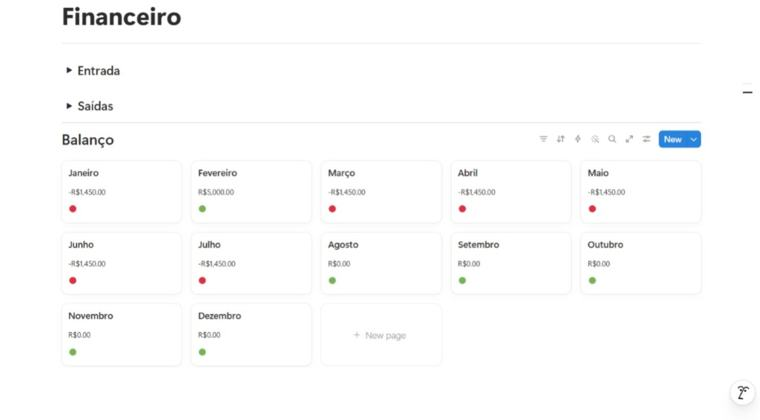
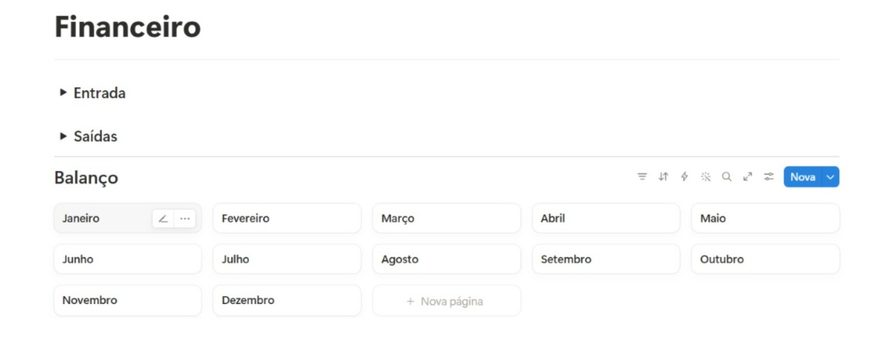
Ajustes pedidos pela cliente, sem alterar a copy aprovada
Marca: o topo e o rodape passam a usar so o simbolo com as iniciais, por ser
a pagina da Mentoria. O card de compartilhamento seguiu a mesma regra.

Metodo P.A.V.A.: seta indicando que o percurso comeca no Posicionamento e
segue no sentido horario. A descricao acessivel do diagrama cita o ponto de
partida.

Rodape: links reais de Instagram e TikTok, sem os parametros de rastreio que
vieram junto. Telefone e e-mail viraram links, com o texto intacto.

Escritorio Digital: quatro telas no lugar de tres, em grade dois por dois.
Sai o nome de outra aluna no titulo, saem os sete meses negativos do
Financeiro e entra o CRM. Recortadas em pares de mesma proporcao para as
linhas fecharem sem sobra, e sem o ruido de interface do Notion.

Hero no iPhone: o iOS transformava o numero do CREA em link de telefone, o
que injetava um elemento a mais na lista e desmontava o alinhamento dos tres
selos. Resolvido com format-detection, e a lista virou flex para nao quebrar
caso o navegador insira algo.

Texto visivel conferido antes e depois: 281 blocos, zero diferencas.

diff --git a/index.html b/index.html
@@ -8,6 +8,8 @@
 <title>Mentoria Master | Pamela Neto | Mentoria individual para profissionais da área ambiental</title>
 <meta name="description" content="Aprenda a executar, na prática, os três serviços que o mercado ambiental mais contrata: IBAMA, Gestão de Resíduos e Licenciamento Ambiental. Mentoria individual e ao vivo, com acompanhamento de quem atua na área há mais de 10 anos.">
 <meta name="theme-color" content="#673165">
+<!-- iOS transformava o numero do CREA em link de telefone e quebrava a lista do hero -->
+<meta name="format-detection" content="telephone=no">
 
 <!-- Icone da aba -->
 <link rel="icon" type="image/png" href="assets/img/favicon.png">
@@ -206,8 +208,8 @@ strong{font-weight:600;color:var(--roxo-escuro)}
 
 .selos{list-style:none;margin-top:42px;display:grid;gap:15px;max-width:44ch}
 .selos li{
-  font-size:var(--t-sm);color:var(--roxo-escuro);display:grid;grid-template-columns:auto 1fr;
-  gap:14px;align-items:start;font-weight:400;line-height:1.5;
+  font-size:var(--t-sm);color:var(--roxo-escuro);display:flex;
+  gap:14px;align-items:flex-start;font-weight:400;line-height:1.5;
   padding-right:12px;
 }
 .selos li::before{
@@ -442,9 +444,8 @@ strong{font-weight:600;color:var(--roxo-escuro)}
 .cartao-bonus ul{list-style:none;display:grid;gap:13px;margin-top:18px}
 .cartao-bonus li{font-size:var(--t-sm);color:var(--sobre-escuro-3);padding-left:26px;position:relative;line-height:1.55}
 .cartao-bonus li::before{content:"";position:absolute;left:0;top:12px;width:14px;height:1px;background:var(--verde)}
-.telas{display:grid;grid-template-columns:1.3fr 1fr;gap:clamp(14px,1.6vw,20px);margin-top:clamp(40px,4.5vw,54px)}
-.telas img{border-radius:4px;border:1px solid rgba(255,255,255,.18);box-shadow:0 24px 48px -24px rgba(0,0,0,.5)}
-.telas .coluna{display:grid;gap:clamp(14px,1.6vw,20px)}
+.telas{display:grid;grid-template-columns:1fr 1fr;gap:clamp(14px,1.6vw,20px);margin-top:clamp(40px,4.5vw,54px)}
+.telas img{width:100%;height:auto;border-radius:4px;border:1px solid rgba(255,255,255,.18);box-shadow:0 24px 48px -24px rgba(0,0,0,.5)}
 .legenda{
   font-size:14px;color:var(--sobre-escuro-4);margin:22px auto 0;text-align:center;
   max-width:62ch;line-height:1.6;
@@ -694,6 +695,8 @@ footer a{color:var(--rodape-texto);text-decoration:none;border-bottom:1px solid 
 footer a:hover{color:#fff;border-color:#fff}
 footer a:focus-visible{outline:2px solid var(--verde-claro);outline-offset:3px}
 .rodape-links{display:flex;gap:26px;flex-wrap:wrap;justify-content:flex-end}
+.rodape-grid p a{color:inherit;text-decoration:none;border-bottom:1px solid rgba(255,255,255,.28)}
+.rodape-grid p a:hover{border-bottom-color:rgba(255,255,255,.7)}
 .rodape-base{display:flex;justify-content:space-between;gap:22px;flex-wrap:wrap;padding-top:26px;font-size:13.5px;color:var(--rodape-texto-2)}
 
 
@@ -775,7 +778,7 @@ footer a:focus-visible{outline:2px solid var(--verde-claro);outline-offset:3px}
   <div class="env">
     <div class="hero-grid">
       <div>
-        <img src="assets/img/logo.png" alt="Pamela Neto Consultoria Ambiental" class="marca" width="440" height="203">
+        <img src="assets/img/simbolo.png" alt="Pamela Neto" class="marca" width="600" height="300">
         <span class="tarja">Mentoria individual para profissionais da área ambiental</span>
         <h1>Você aprendeu a teoria.<br>Agora é hora de aprender a executar.</h1>
         <p class="hero-sub">Mentoria individual e ao vivo para profissionais da área ambiental que querem executar, com segurança, os três serviços que o mercado mais contrata: Serviços do IBAMA, Gestão de Resíduos e Licenciamento Ambiental.</p>
@@ -895,12 +898,16 @@ footer a:focus-visible{outline:2px solid var(--verde-claro);outline-offset:3px}
     <p class="intro">O P.A.V.A. é a metodologia que desenvolvi exclusivamente para a Mentoria Master, a partir da experiência prática de mercado. Ele existe porque conhecimento técnico sozinho não sustenta uma carreira: é preciso saber se posicionar, gerar oportunidades, executar com qualidade e crescer com consistência.</p>
     <div class="pava-grid">
       <div>
-        <svg class="roda" viewBox="0 0 400 400" role="img" aria-label="Diagrama do Método P.A.V.A. com quatro pilares: Posicionamento, Aquisição de oportunidades, Valor técnico e Avanço profissional">
+        <svg class="roda" viewBox="0 0 400 400" role="img" aria-label="Diagrama do Método P.A.V.A. Uma seta marca o início no Posicionamento e o percurso segue no sentido horário pelos quatro pilares: Posicionamento, Aquisição de oportunidades, Valor técnico e Avanço profissional">
           <!-- as quatro cores abaixo acompanham os marcadores dos pilares ao lado -->
           <path d="M200 200 L200 40 A160 160 0 0 0 40 200 Z" fill="#673165"/>
           <path d="M200 200 L200 40 A160 160 0 0 1 360 200 Z" fill="#9BC4B3"/>
           <path d="M200 200 L360 200 A160 160 0 0 1 200 360 Z" fill="#4A2249"/>
           <path d="M200 200 L200 360 A160 160 0 0 1 40 200 Z" fill="#A983B7"/>
+          <!-- seta de inicio: o percurso comeca no P e segue no sentido horario -->
+          <path d="M67 171.7 A136 136 0 0 1 158 70.7" fill="none" stroke="#FFFFFF"
+                stroke-width="3.4" stroke-linecap="round" opacity=".92"/>
+          <path d="M166.6 67.9 L155.9 77.2 L152.5 66.7 Z" fill="#FFFFFF" opacity=".92"/>
           <circle cx="200" cy="200" r="60" fill="#F7F5F6"/>
           <text x="120" y="130" font-family="Cinzel,serif" font-size="42" fill="#FFFFFF" text-anchor="middle">P</text>
           <text x="280" y="130" font-family="Cinzel,serif" font-size="42" fill="#4A2249" text-anchor="middle">A</text>
@@ -974,11 +981,10 @@ footer a:focus-visible{outline:2px solid var(--verde-claro);outline-offset:3px}
       </div>
     </div>
     <div class="telas">
-      <img src="assets/img/ed-home.jpg" alt="Tela inicial do Escritório Digital, com áreas de gestão, empresa e serviços" width="760" height="365" loading="lazy" decoding="async">
-      <div class="coluna">
-        <img src="assets/img/ed-tarefas.jpg" alt="Tela de gestão de tarefas do Escritório Digital" width="760" height="242" loading="lazy" decoding="async">
-        <img src="assets/img/ed-financeiro.jpg" alt="Tela de controle financeiro do Escritório Digital" width="760" height="420" loading="lazy" decoding="async">
-      </div>
+      <img src="assets/img/ed-home.jpg" alt="Tela inicial do Escritório Digital, com links úteis, áreas da empresa e produtos" width="880" height="496" loading="lazy" decoding="async">
+      <img src="assets/img/ed-crm.jpg" alt="Tela de CRM do Escritório Digital, com o acompanhamento de cada cliente, o estágio da proposta e o valor" width="880" height="497" loading="lazy" decoding="async">
+      <img src="assets/img/ed-tarefas.jpg" alt="Tela de gestão de tarefas do Escritório Digital, com prazo, classificação e status de cada tarefa" width="880" height="338" loading="lazy" decoding="async">
+      <img src="assets/img/ed-financeiro.jpg" alt="Tela de controle financeiro do Escritório Digital, com entradas, saídas e o balanço mês a mês" width="880" height="338" loading="lazy" decoding="async">
     </div>
     <p class="legenda">A maior parte dos profissionais técnicos perde tempo e dinheiro por desorganização, não por falta de conhecimento. O Escritório Digital resolve isso.</p>
   </div>
@@ -1287,13 +1293,13 @@ footer a:focus-visible{outline:2px solid var(--verde-claro);outline-offset:3px}
   <div class="env">
     <div class="rodape-grid">
       <div>
-        <img src="assets/img/logo.png" alt="Pamela Neto Consultoria Ambiental" width="440" height="203" loading="lazy" decoding="async">
+        <img src="assets/img/simbolo.png" alt="" width="600" height="300" loading="lazy" decoding="async">
         <p class="rodape-empresa">Pamela Neto Consultoria Ambiental · Engenheira Ambiental e Sanitarista · CREA/SP 5070315688</p>
-        <p>(11) 97565-2171 · consultoria@pamelaneto.com.br</p>
+        <p><a href="tel:+5511975652171">(11) 97565-2171</a> · <a href="mailto:consultoria@pamelaneto.com.br">consultoria@pamelaneto.com.br</a></p>
       </div>
       <div class="rodape-links">
-        <a href="#">Instagram</a>
-        <a href="#">TikTok</a>
+        <a href="https://www.instagram.com/eng.pamelaneto" target="_blank" rel="noopener">Instagram</a>
+        <a href="https://www.tiktok.com/@eng.pamelaneto" target="_blank" rel="noopener">TikTok</a>
         <a href="#">Política de Privacidade</a>
       </div>
     </div>
